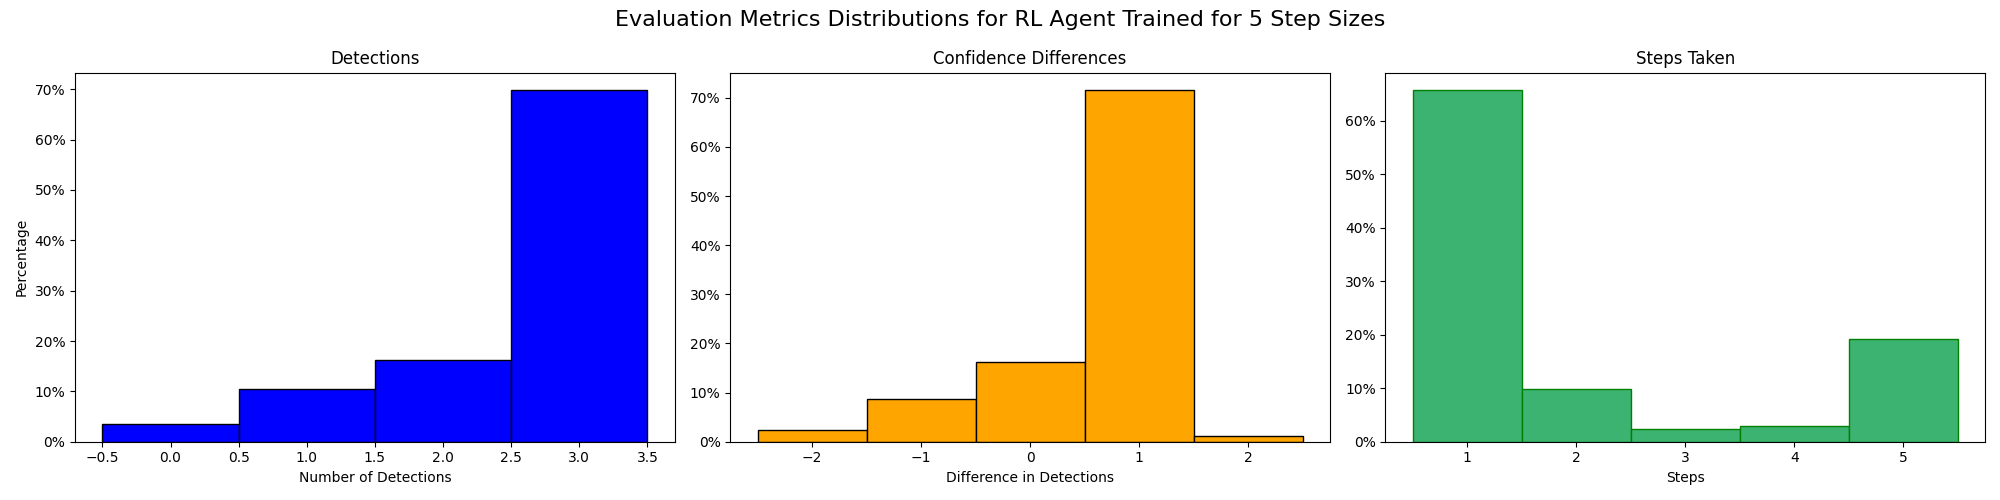
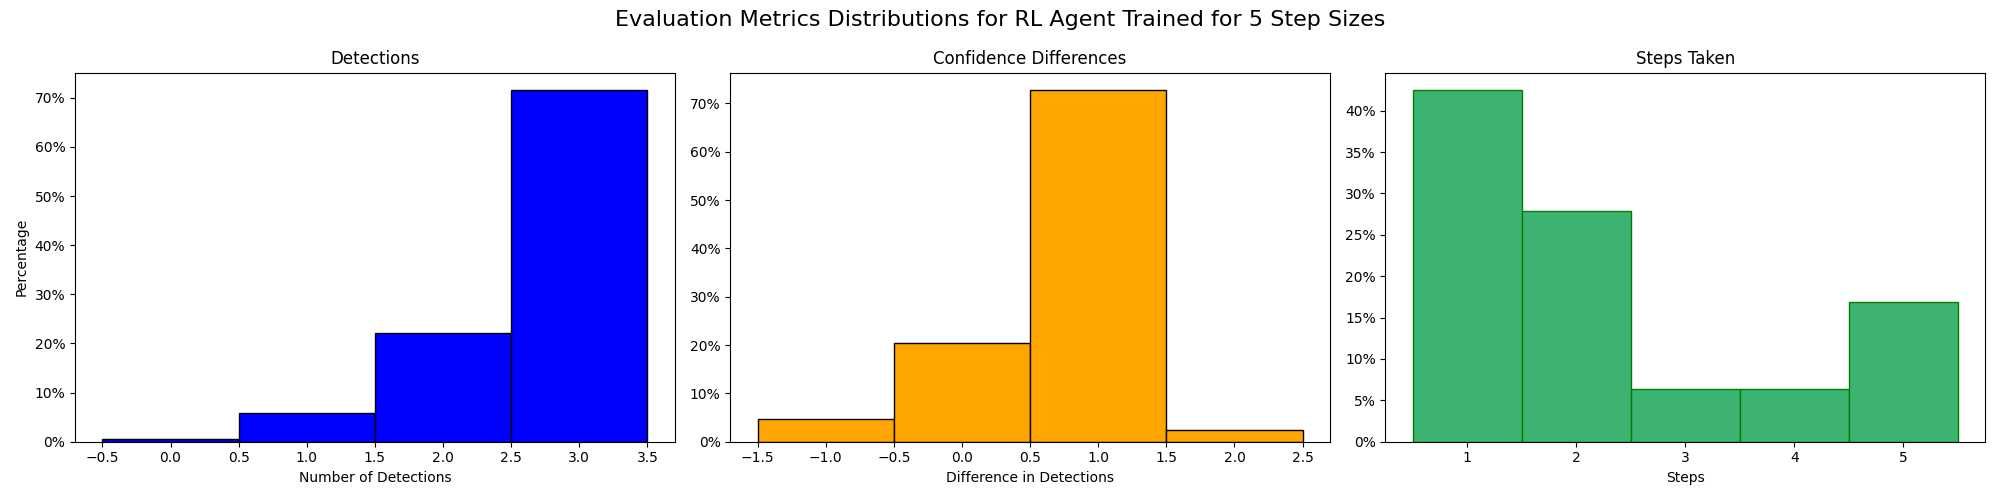
README

diff --git a/run_experiment.py b/run_experiment.py
@@ -130,8 +130,8 @@ if __name__ == "__main__":
     critic_lr = 1e-3
     batch_size = 32
     memory_capacity = 100000
-    num_episodes = 5000
-    num_experiments = 20
+    num_episodes = 10000
+    num_experiments = 1
     action_noise_std = 0.1
     initial_noise_std = 0.1
     final_noise_std = 0.05
@@ -147,7 +147,7 @@ if __name__ == "__main__":
     # if torch.cuda.is_available():
     #     torch.cuda.manual_seed_all(21)
 
-    step_grid = [5, 10, 25]
+    step_grid = [5]
     results_dict = {}
 
     for num_steps in step_grid:
@@ -167,7 +167,7 @@ if __name__ == "__main__":
             # split_dataset() get a new split saved as train_shuffle and test_shuffle
 
             detector = ObjectDetectorCNN(model_path)
-            env = ImagePreprocessingQEnv(detector, train_images_folder, render=True)
+            env = ImagePreprocessingQEnv(detector, train_images_folder, render=False)
 
             actor = Actor(input_dim=2, output_dim=2).to(device)
             target_actor = Actor(input_dim=2, output_dim=2).to(device)

diff --git a/image_preprocessing_env.py b/image_preprocessing_env.py
@@ -79,9 +79,6 @@ class ImagePreprocessingQEnv:
         # Linear or sigmoid delta scoring
         reward = delta_conf
 
-        if len(original_detections) == 3:
-            print(f"Path: {self.image_path}")
-
         # Optional: confidence-weighted bonus for new detections
         if len(adjusted_detections) > len(original_detections):
             reward += 1
@@ -148,7 +145,7 @@ class ImagePreprocessingQEnv:
 
     def get_state_vector(self):
         brightness, contrast = self.compute_image_stats(self.image)
-        return np.array([brightness, contrast]) 
+        return np.array([brightness, contrast])
 
     def plot_rewards(self, save=True, rewards=[], model_type="Q"):
         plt.figure(figsize=(20, 10))

diff --git a/README.md b/README.md
@@ -1,0 +1,74 @@
+# RLPreprocessor
+
+RLPreprocessor is a reinforcement learning framework for optimizing photometric image preprocessing (brightness and contrast adjustments) to improve object detection performance using black-box CNN models such as YOLO. It leverages the Deep Deterministic Policy Gradient (DDPG) algorithm to learn continuous transformations that enhance detection confidence and success rates. The system is model-agnostic and particularly applicable to domains like biomedical imaging, where annotation-free tuning is valuable.
+
+## Getting Started
+
+### 1. Set Up the Environment
+
+Clone the repo and install dependencies:
+
+```bash
+git clone https://github.com/RFM7991/RL-Preprocessing.git
+cd RLPreprocessor
+python3 -m venv venv
+source venv/bin/activate
+pip install -r requirements.txt
+````
+
+### 2. Prepare Image Data
+
+Add `.jpg` or `.png` images to the following folders:
+
+* `images/train` — used for training the RL agent
+* `images/test` — used for evaluation after training
+
+You can use your own dataset or a public object detection dataset (e.g., Ultralytics' examples).
+
+### 3. Train the DDPG Agent
+
+Run the main experiment script:
+
+```bash
+python run_experiment.py
+```
+
+This will train the DDPG agent to control image brightness and contrast to improve downstream detection. Trained models will be saved to the `models/` directory.
+
+### 4. Evaluate Performance
+
+The system automatically runs evaluation after training using the saved actor/critic models on the test set. Performance plots and logs are saved to `output/DDPG/`.
+
+## Core Concept
+
+The environment models image preprocessing as a continuous control problem. At each step, the agent receives a state vector representing the current photometric properties of the image and outputs actions to adjust brightness (beta) and contrast (alpha). The reward function is based on the improvement in detection confidence or successful detection count when evaluated by a frozen YOLO model. Ground truth annotations are not required.
+
+## Features
+
+* Continuous action space with DDPG
+* Model-agnostic design; works with any fixed CNN detector
+* Reward based on detection improvement without access to labels
+* Plotting and evaluation tools for comparing results across experiments
+
+## Requirements
+
+* Python 3.8+
+* PyTorch
+* OpenCV
+* Matplotlib
+* NumPy
+* Ultralytics YOLOv8
+
+Install all dependencies with:
+
+```bash
+pip install -r requirements.txt
+```
+
+## Acknowledgments
+
+This project was developed as part of a research effort into reinforcement learning for adaptive image preprocessing. YOLO models are loaded using the Ultralytics framework: [https://github.com/ultralytics/ultralytics](https://github.com/ultralytics/ultralytics)
+
+## Contact
+
+Maintained by Robert McPherson. For questions or collaboration, please reach out to robert.mcpherson@tufts.edu
